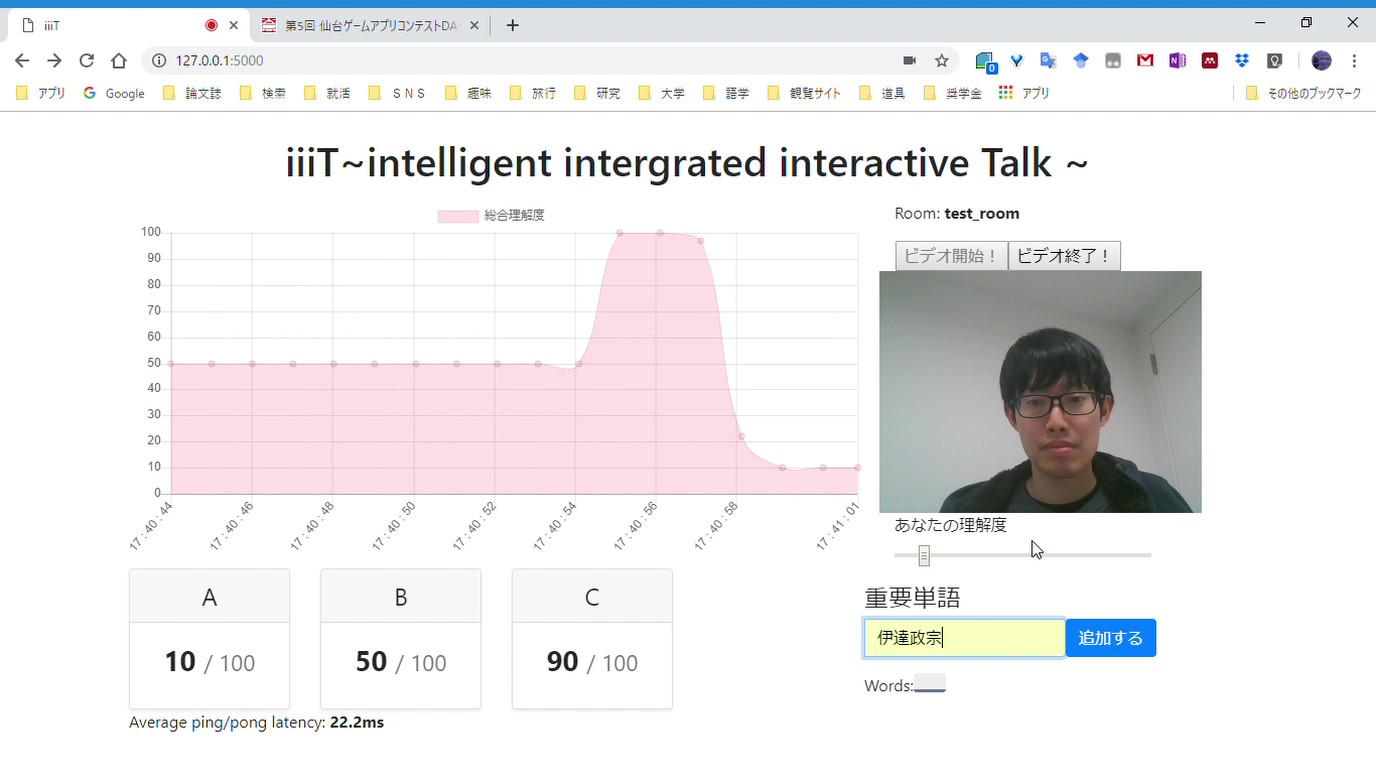
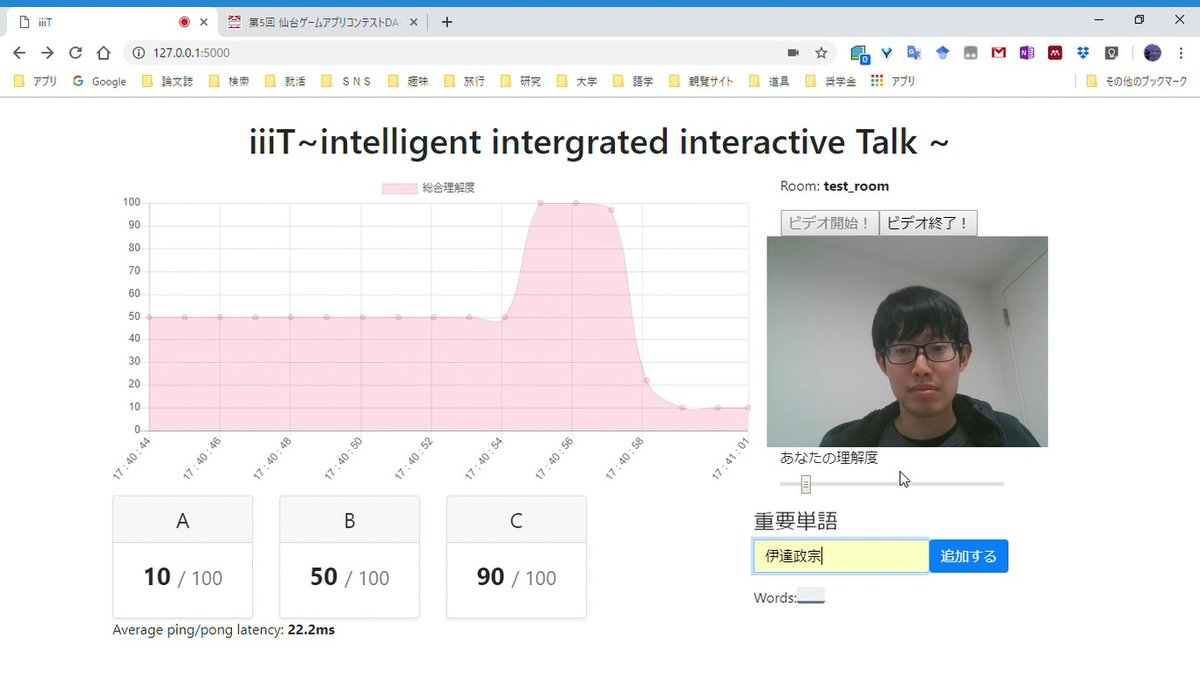
画像縮小化

diff --git a/index.html b/index.html
@@ -9,6 +9,10 @@
 		<title>aki310ooooo|秋田賢</title>
 		<meta charset="utf-8" />
 		<meta name="viewport" content="width=device-width, initial-scale=1, user-scalable=no" />
+		<!-- Preconnect to external domains -->
+		<link rel="preconnect" href="https://fonts.googleapis.com">
+		<link rel="preconnect" href="https://fonts.gstatic.com" crossorigin>
+		<link rel="preconnect" href="https://www.googletagmanager.com">
 		<link rel="stylesheet" href="assets/css/main.css" />
 		<link rel="stylesheet" href="css/style.css" />
 		<noscript><link rel="stylesheet" href="assets/css/noscript.css" /></noscript>
@@ -35,16 +39,16 @@
 				<!-- Banner -->
 					<section id="banner">
 						<div class="inner">
-							<div class="logo"><img src="images/kitune2.png" height=100px></span></div>
+							<div class="logo"><img src="images/kitune2.jpg" height=100px loading="eager"></span></div>
 							<h2>aki310 </h2>
 							<p>エンジニア。本業は機械学習・IoT系のシステム設計。AI/画像処理系のシステムエンジニアであり、Forward-Deployed Engineerです。
 								半導体、機械学習、宇宙、生物、セキュリティ界隈に生息しています。美味しいごはんと楽しいサービス開発が好きです。</p>
 							<p>＜資格＞</p>
-							<p>情報処理安全確保支援士（未登録）、AWS Certified Solutions Architect - Associate、Tensorflow Developer</p>
+							<p>情報処理安全確保支援士（未登録）、Google Certified Professional - Cloud Architect、AWS Certified Solutions Architect - Associate（失効）、Tensorflow Developer</p>
 							<p>＜経験＞</p>
-							<p>分子ロボコン（世界大会優勝）、防災アプリ大会（世界3位）、機械学習サークル東北支部立ち上げ、Secheck365修了、SXSW派遣、NOCスタッフなど。</p>
+							<p>分子ロボコン（世界大会優勝）、防災アプリ大会（世界3位）、機械学習サークル東北支部立ち上げ、Secheck365修了、SXSW派遣、SWカンファレンス運営など。</p>
 							<p>＜趣味＞</p>
-							<p>読書、工場見学、マラソン、スキー、ゴルフ、料理、ゲーム、資格チャレンジ、回転寿司など。</p>
+							<p>読書、工場見学、マラソン、スキー、ゴルフ、料理、宇宙、資格チャレンジ、回転寿司など。</p>
 							<p><a href="http://akisatooo.hatenablog.com/">ブログ</a></p>
 							<p><a href="https://drive.google.com/file/d/1ee9-iZAxtQ2D2vsbpPWiOfdE6GBg3WGJ/view?usp=drive_link">CV</a></p>
 							<ul class="icons">
@@ -67,7 +71,7 @@
 
 										<article>
 											<a href="https://minna-no-mandalart.vercel.app/prototype/index.html" class="image">
-												<img src="images/minnano_mandara-to.jpg" alt="" />
+												<img src="images/minnano_mandara-to.jpg" alt="" loading="lazy" />
 											</a>
 											
 											<h3 class="major">みんなのマンダラート</h3>
@@ -80,7 +84,7 @@
 
 										<article>
 											<a href="https://luma.com/1ab666w6?locale=ja&tk=IFndWw" class="image">
-												<img src="images/DeepTripGlass.png" alt="" />
+												<img src="images/DeepTripGlass.jpg" alt="" loading="lazy" />
 											</a>
 											
 											<h3 class="major">TechWorldハッカソン2025</h3>
@@ -93,7 +97,7 @@
 
 										<article>
 											<a href="https://akisatooo.hatenablog.com/entry/2025/12/17/224101" class="image">
-												<img src="images/OpenSourceSummitJapan2025.jpg" alt="" />
+												<img src="images/OpenSourceSummitJapan2025.jpg" alt="" loading="lazy" />
 											</a>
 											
 											<h3 class="major">Open Source Summit Japan2025ボランティアスタッフ</h3>
@@ -107,7 +111,7 @@
 
 										<article>
 											<a href="https://speakerdeck.com/aki310ooooo/sechack365xiu-liao-sheng-zhao-dai-jiang-yan-20251114" class="image">
-												<img src="images/sechack365_preview2025.png" alt="" />
+												<img src="images/sechack365_preview2025.jpg" alt="" loading="lazy" />
 											</a>
 											
 											<h3 class="major">Sechack365修了生講演</h3>
@@ -120,7 +124,7 @@
 
 										<article>
 											<a href="https://wwlapaki310.github.io/academic-conference-schedule-for-SW-Engineer/" class="image">
-												<img src="images/academia-conference.jpg" alt="" />
+												<img src="images/academia-conference.jpg" alt="" loading="lazy" />
 											</a>
 											
 											<h3 class="major">アカデミア会議スケジュール一覧サイト</h3>
@@ -133,7 +137,7 @@
 
 										<article>
 											<a href="https://weblab.t.u-tokyo.ac.jp/lecture/course-list/ai-and-semiconductors/" class="image">
-												<img src="images/AI-to-semicon.png" alt="" />
+												<img src="images/AI-to-semicon.png" alt="" loading="lazy" />
 											</a>
 											
 											<h3 class="major">AIと半導体（松尾研講義）受講</h3>
@@ -146,7 +150,7 @@
 
 										<article>
 											<a href="https://sre-next.dev/2025/" class="image">
-												<img src="images/sre-next2025.jpg" alt="" />
+												<img src="images/sre-next2025.jpg" alt="" loading="lazy" />
 											</a>
 											
 											<h3 class="major">NOCスタッフ（SRE NEXT2025）</h3>
@@ -158,7 +162,7 @@
 
 										<article>
 											<a href="https://akisatooo.hatenablog.com/entry/2024/12/09/224336" class="image">
-												<img src="images/slidev-on-vercel.png" alt="" />
+												<img src="images/slidev-on-vercel.jpg" alt="" loading="lazy" />
 											</a>
 											
 											<h3 class="major">slidevs-on-vercel</h3>
@@ -173,7 +177,7 @@
 
 										<article>
 											<a href="https://akisatooo.hatenablog.com/entry/2024/12/09/224336" class="image">
-												<img src="images/ZenMaster.png" alt="" />
+												<img src="images/ZenMaster.png" alt="" loading="lazy" />
 											</a>
 											
 											<h3 class="major">Digital Zen Master</h3>
@@ -187,7 +191,7 @@
 
 										<article>
 											<a href="https://akisatooo.hatenablog.com/entry/2024/10/24/182059" class="image">
-												<img src="images/coloring bottle.png" alt="" />
+												<img src="images/coloring bottle.png" alt="" loading="lazy" />
 											</a>
 											
 											<h3 class="major">Coloring Bottle</h3>
@@ -201,7 +205,7 @@
 
 										<article>
 											<a href="https://akisatooo.hatenablog.com/entry/2024/08/16/233725" class="image">
-												<img src="images/mycmos.jpg" alt="" />
+												<img src="images/mycmos.jpg" alt="" loading="lazy" />
 											</a>
 											
 											<h3 class="major">OpenMPWで半導体チップを設計し製造してみた</h3>
@@ -244,7 +248,7 @@
 
 										<article>
 											<a href="https://2020.spaceappschallenge.org/locations/tokyo/teams" class="image">
-												<img src="images/deephazard.png" alt="" />
+												<img src="images/deephazard.png" alt="" loading="lazy" />
 											</a>
 											
 											<h3 class="major">NASA SPACE APP CHALLENGE 2020</h3>
@@ -255,7 +259,7 @@
 
 										<article>
 											<a href="https://react-movie-search-acae4.web.app/" class="image">
-												<img src="images/react_movie.png" alt="" />
+												<img src="images/react_movie.jpg" alt="" loading="lazy" />
 											</a>
 											
 											<h3 class="major">React＋Firebaseによる映画検索サイト</h3>
@@ -300,7 +304,7 @@
 										</article>
 
 										<article>
-											<a href="https://twitter.com/chomado/status/1137584612039782400/photo/1" class="image"><img src="images/faketourist.png" alt="http://vsmedia.info/2019/03/06/dateapps2019_1/" /></a>
+											<a href="https://twitter.com/chomado/status/1137584612039782400/photo/1" class="image"><img src="images/faketourist.jpg" alt="http://vsmedia.info/2019/03/06/dateapps2019_1/" loading="lazy" /></a>
 											
 											<h3 class="major">faketourist</h3>
 											<p>写真の顔を入れ替える権利を売買するアプリ．旅行先の映える写真を顔を入れ替えて自分のものにできる．</p>
@@ -309,7 +313,7 @@
 										</article>
 
 										<article>
-											<a href="https://devpost.com/software/" class="image"><img src="images/sxsw.png" alt="" /></a>
+											<a href="https://devpost.com/software/" class="image"><img src="images/sxsw.png" alt="" loading="lazy" /></a>
 											
 											<h3 class="major">wabisabi~listen the melody of things~</h3>
 											<p>認識した物体のHSV色彩情報から音楽を生成するアプリ．</p>
@@ -318,7 +322,7 @@
 										</article>
 
 										<article>
-											<a href="https://sechack365.nict.go.jp/achievement/2018/index.html" class="image"><img src="images/sechack1.png" alt="" /></a>
+											<a href="https://sechack365.nict.go.jp/achievement/2018/index.html" class="image"><img src="images/sechack1.jpg" alt="" loading="lazy" /></a>
 											
 											<h3 class="major">感情推移図作成サービス</h3>
 											<p>Twitterの投稿文を感情値判定し，その推移図を表示するWebサービス．twitterの名言bot，悪口botからfasttextで文章の類似度判定機を作り，感情値を判定．</p>
@@ -327,7 +331,7 @@
 										</article>
 
 										<article>
-											<a href="https://sechack365.nict.go.jp/achievement/2018/index.html" class="image"><img src="images/sechack2.png" alt="" /></a>
+											<a href="https://sechack365.nict.go.jp/achievement/2018/index.html" class="image"><img src="images/sechack2.png" alt="" loading="lazy" /></a>
 											
 											<h3 class="major">セリフballon</h3>
 											<p>ユーザーが投稿した画像に，セリフを埋め込みセリフ付き画像を作成するサービス．セリフ付き画像の作成を低コストにし，コミュニケーションの円滑化を目指す．</p>
@@ -336,7 +340,7 @@
 										</article>
 
 										<article>
-											<a href="http://vsmedia.info/2019/03/06/dateapps2019_1/" class="image"><img src="images/iiit.jpg" alt="" /></a>
+											<a href="http://vsmedia.info/2019/03/06/dateapps2019_1/" class="image"><img src="images/iiit.jpg" alt="" loading="lazy" /></a>
 											
 											<h3 class="major">iiiT　</h3>
 											<p>「知ったかぶり」のない生産的な会議を実現するWebアプリ．表情orバーから理解度の判定，音声or打ち込んだ単語の意味表示機能．Web周りやサービス案の落とし込み．</p>
@@ -367,7 +371,7 @@
 										</article>
 
 										<article>
-											<a href="https://speakerdeck.com/ynntech/spajam-2018-xian-tai-yu-xuan-detective-nanako" class="image"><img src="images/spajam2018.png" alt="" /></a>
+											<a href="https://speakerdeck.com/ynntech/spajam-2018-xian-tai-yu-xuan-detective-nanako" class="image"><img src="images/spajam2018.jpg" alt="" loading="lazy" /></a>
 											<h3 class="major">名探偵ななこ</h3>
 											<p>外国人観光客向けに仙台のお土産の名前を判定してくれるスマホアプリ</p>
 											<P>SPAJAM2018仙台予選　優秀賞　全脳アーキテクチャ若手の会東北支部</p>
@@ -386,21 +390,21 @@
 										</article>
 
 										<article>
-											<a href="http://biomod.net/winners/2015.html" class="image"><img src="images/biomod2015.png" alt="" /></a>
+											<a href="http://biomod.net/winners/2015.html" class="image"><img src="images/biomod2015.png" alt="" loading="lazy" /></a>
 											<h3 class="major">国際分子デザインコンテスト(BIOMOD2015)</h3>
 											<p>ハーバード大学で開催されたDNAを用いた面白い生体分子を創るコンテスト．Webページ作成やシミュレーションなどを担当．TeamSebdaiとして統合優勝（the grand prize）</p>
 											
 										</article>
 
 										<article>
-											<a href="https://biomod2016.gitlab.io/sendai/" class="image"><img src="images/biomod2016.png" alt="" /></a>
+											<a href="https://biomod2016.gitlab.io/sendai/" class="image"><img src="images/biomod2016.jpg" alt="" loading="lazy" /></a>
 											<h3 class="major">国際分子デザインコンテスト(BIOMOD2016)</h3>
 											<p>去年に続き，Webページ作成のお手伝い．</p>
 											
 										</article>
 
 										<article>
-											<a href="http://www.rdceim.tohoku.ac.jp/iCAN14_sendai/result.html" class="image"><img src="images/savebook.png" alt="" /></a>
+											<a href="http://www.rdceim.tohoku.ac.jp/iCAN14_sendai/result.html" class="image"><img src="images/savebook.jpg" alt="" loading="lazy" /></a>
 											<h3 class="major">Savebook</h3>
 											<p>地震の時に本棚から本が落ちるのを守るIoT仕切り．普段は邪魔にならず，震度4以上の揺れを感知したらモーターで仕切りが上がる．</p>
 											<p>国際ナノ・マイクロアプリケーションコンテスト（Ican'14)　第3位（the third prize） </p>

diff --git a/CLAUDE.md b/CLAUDE.md
@@ -1,0 +1,109 @@
+# CLAUDE.md
+
+This file provides guidance to Claude Code (claude.ai/code) when working with code in this repository.
+
+## Overview
+
+This is a personal portfolio website (wwlapaki310.github.io) built as a static GitHub Pages site. The site showcases projects, activities, and professional information for aki310 (秋田賢/Satoru Akita), an engineer focused on machine learning, IoT, and image processing systems.
+
+## Technology Stack
+
+- **Template**: HTML5 UP "Solid State" theme (CCA 3.0 license)
+- **Frontend**: Static HTML, CSS, JavaScript (jQuery-based)
+- **Styling**: SASS/SCSS for preprocessing, FontAwesome for icons
+- **Hosting**: GitHub Pages (static site deployment)
+- **Analytics**: Google Analytics (gtag.js)
+
+## Site Structure
+
+```
+├── index.html              # Main portfolio page (single-page design)
+├── assets/
+│   ├── css/               # Compiled CSS and third-party styles
+│   ├── js/                # jQuery plugins and main.js for interactions
+│   ├── sass/              # SASS source files (components, layout, base)
+│   └── webfonts/          # FontAwesome web fonts
+├── css/                   # Additional custom styles
+└── images/                # Project screenshots, logos, and images
+```
+
+## Architecture
+
+### Single-Page Portfolio Design
+- The entire site is contained in `index.html` with sections for banner, activities/projects, and footer
+- All content is embedded directly in the HTML (no CMS or dynamic data loading)
+- Responsive design with breakpoints: xlarge (1680px), large (1280px), medium (980px), small (736px), xsmall (480px)
+
+### JavaScript Architecture
+- jQuery-based with plugin dependencies: scrollex, browser.min.js, breakpoints.min.js
+- `main.js` handles:
+  - Header alt-state toggle on scroll
+  - Menu show/hide with lock mechanism
+  - Responsive behavior
+- Menu uses a locking pattern to prevent rapid toggling (350ms debounce)
+
+### Styling Architecture
+- SASS organized into three layers:
+  - `base/`: Reset, page layout, typography
+  - `components/`: Reusable UI elements (buttons, forms, icons, etc.)
+  - `layout/`: Major layout sections (header, banner, menu, wrapper, footer)
+- Custom styles in `css/style.css` and `css/bootstrap-social.css`
+
+## Content Management
+
+### Adding New Projects/Activities
+Projects are manually added to the `#four` section in index.html. Each project follows this structure:
+
+```html
+<article>
+    <a href="[PROJECT_URL]" class="image">
+        <img src="images/[IMAGE_FILE]" alt="" />
+    </a>
+    <h3 class="major">[PROJECT_TITLE]</h3>
+    <p>[PROJECT_DESCRIPTION]</p>
+    <p><a href="[LINK]">リンク</a></p>
+</article>
+```
+
+For video embeds, use:
+```html
+<div class="video">
+    <iframe src="https://www.youtube.com/embed/[VIDEO_ID]" frameborder="0"
+            allow="accelerometer; autoplay; encrypted-media; gyroscope; picture-in-picture"
+            allowfullscreen></iframe>
+</div>
+```
+
+### Image Management
+- All project images stored in `images/` directory
+- Common formats: PNG, JPG
+- Banner icon: `images/kitune2.png`
+
+## Deployment
+
+This is a GitHub Pages site deployed from the `master` branch. Changes to `index.html` or assets are automatically deployed when pushed to the repository.
+
+## Key Customizations from Template
+
+The "Solid State" template has been customized with:
+- Japanese content for personal branding
+- Google Analytics integration
+- Custom project showcase layout with video embeds
+- Social media links (Twitter, Facebook, GitHub, LinkedIn, Email)
+- CV link to Google Drive
+- Blog integration (Hatena blog)
+
+## Development Workflow
+
+Since this is a static site with no build process:
+1. Edit `index.html` directly for content changes
+2. Modify SASS files in `assets/sass/` if styling changes are needed (requires SASS compilation)
+3. Test locally by opening `index.html` in a browser
+4. Commit and push to deploy via GitHub Pages
+
+## Notes
+
+- No package.json or build tools configured
+- SASS compilation must be done externally if modifying styles
+- All JavaScript dependencies are minified and vendored
+- Site is primarily content-focused with minimal interactivity
